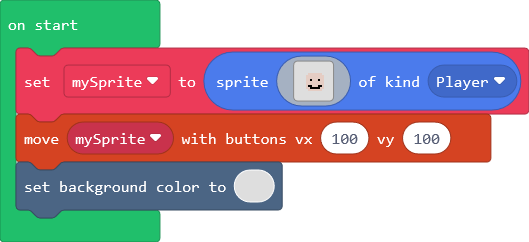
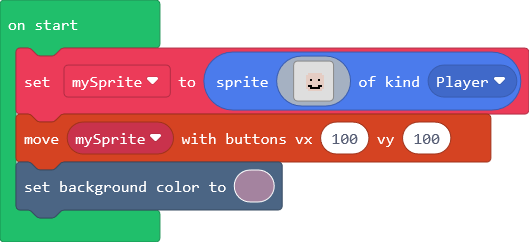
changed background color

Changed region(s): [[0.4234, 0.6942, 0.5444, 0.8388]]

diff --git a/main.ts b/main.ts
@@ -17,4 +17,4 @@ let mySprite = sprites.create(img`
 . . . . . . . . . . . . . . . . 
 `, SpriteKind.Player)
 controller.moveSprite(mySprite, 100, 100)
-scene.setBackgroundColor(0)
+scene.setBackgroundColor(11)
